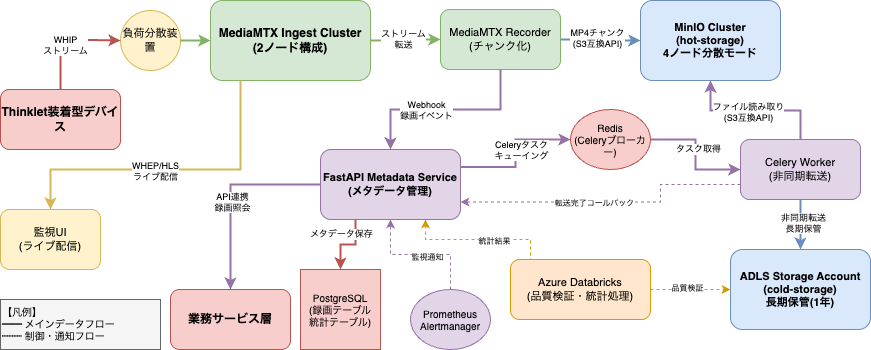
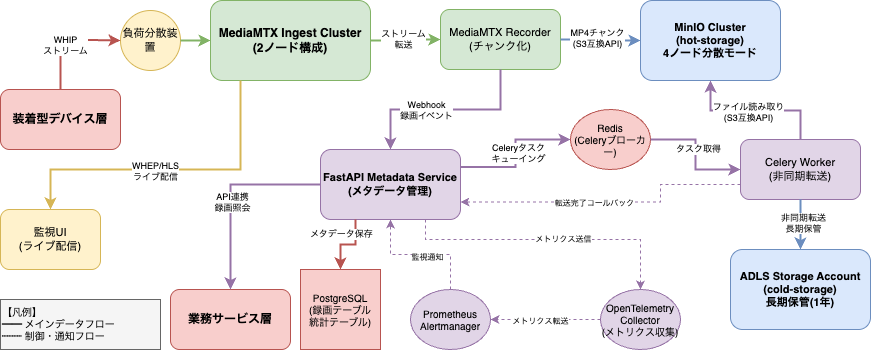
設計書を追加した

diff --git a/docs/03000_設計書/03020_配信・記録層設計/03022_配信・記録層詳細設計/03022_配信・記録層詳細設計.md b/docs/03000_設計書/03020_配信・記録層設計/03022_配信・記録層詳細設計/03022_配信・記録層詳細設計.md
@@ -38,7 +38,6 @@
 - MinIO は 4 ノード分散モードでホットストレージを構成し、MediaMTX Recorder から S3 互換 API で書き込み。
 - ADLS は別リージョン冗長ストレージ (ZRS) を利用し、MinIO から FastAPI + Celery ワーカー経由で非同期転送。
 - FastAPI Metadata Service はコンテナ化し、業務サービス層と同一 VNet 内で動作。PostgreSQL 互換 RDB をメタデータ格納に使用。Redis を Celery ブローカーとして併設。
-- Azure Databricks はデータマネジメント層と同一サブスクリプションに配置し、FastAPI からバッチジョブを起動。
 
 ### 4.3. システム関連図
 ![配信・記録層システム関連図](./配信・記録層システム関連図.svg)
@@ -49,7 +48,7 @@
 3. MediaMTX Recorder が MP4 チャンク (デフォルト 60 秒) を生成し、MinIO hot-storage バケットへ書き込み。チャンク作成時にメタデータ (録画 ID、開始時刻、端末 ID) をオブジェクトタグに付与。
 4. FastAPI Metadata Service が MediaMTX Webhook を受信し、録画レコードを作成。月連番、工程情報、保存先 URI を登録し業務サービス層へ通知 (I-001)。
 5. FastAPI が Celery タスクキューに ADLS 転送タスクを追加。Celery ワーカーが 15 分毎に MinIO から ADLS へ新規チャンクを非同期転送し、成功後に MinIO オブジェクトへ移行済みタグを付与。転送完了時にコールバック API で FastAPI へ通知し、保持期間を更新。
-6. Azure Databricks が日次バッチで録画メタデータを解析し、パケット損失率・遅延統計を計算。結果は FastAPI を介してデータマネジメント層へ連携し、ダッシュボード表示用に整形。
+6. 配信・記録層のメタデータと統計情報は FastAPI を介してデータマネジメント層へ定期的に ETL 連携し、分析・可視化層でのダッシュボード表示用に整形。
 
 
 ## 6. モジュール設計
@@ -83,13 +82,13 @@
 - **Celery タスク定義**：
   - `transfer_to_adls_task`：MinIO → ADLS 転送とハッシュ検証
   - `cleanup_minio_task`：転送完了後の MinIO オブジェクト削除
-  - `databricks_job_trigger_task`：Azure Databricks ジョブ起動
+  - `cleanup_minio_task`：転送完了後の MinIO オブジェクト削除
   - `health_check_task`：定期的なサービス死活監視
 
-### 6.5 Azure Databricks Jobs
-- ジョブ 1：録画整合性チェック（チャンク欠落、ファイルサイズ異常）。FastAPI へ結果を通知し、エラー時はアラート発報。
-- ジョブ 2：遅延統計算出（平均遅延、95 パーセンタイル、パケット損失率）。結果をデータマネジメント層へ書き込み。
-- ジョブ 3：保持期間延長判定（運用ポリシーに基づくタグ更新）。
+### 6.5 オブザーバビリティスタック
+- **OpenTelemetry Collector**：メトリクス、トレーシング、ログを統一収集。FastAPI、MediaMTX、CeleryワーカーからのテレメトリデータをOTLPプロトコルで受信。
+- **Prometheus**：OpenTelemetryからメトリクスを受信し、時系列データとして保存。Alertmanagerと連携して闾値監視を実施。
+- **Grafana**：Prometheusデータを可視化し、ライブ配信状況、録画統計、Celeryタスク統計をダッシュボード表示。
 
 ## 7. インターフェース仕様
 ### 7.1 Webhook 受信 (MediaMTX → FastAPI)
@@ -108,11 +107,11 @@
 | `state`       | `ACTIVE` `ARCHIVED` `ERROR` |
 
 ### 7.3 内部 Celery タスク処理
-| タスク                        | 説明                                                               |
-| ----------------------------- | ------------------------------------------------------------------ |
-| `transfer_to_adls_task`       | MinIO から ADLS へのファイル転送、ハッシュ検証、完了ステータス更新 |
-| `cleanup_minio_task`          | 転送完了後の MinIO オブジェクト削除とタグ更新                      |
-| `databricks_job_trigger_task` | Azure Databricks ジョブの非同期起動                                |
+| タスク                     | 説明                                                               |
+| -------------------------- | ------------------------------------------------------------------ |
+| `transfer_to_adls_task`    | MinIO から ADLS へのファイル転送、ハッシュ検証、完了ステータス更新 |
+| `cleanup_minio_task`       | 転送完了後の MinIO オブジェクト削除とタグ更新                      |
+| `etl_data_management_task` | データマネジメント層へのメタデータ ETL 連携                        |
 
 ### 7.4 監視通知 (Prometheus Alertmanager → FastAPI)
 - アラート種別：遅延超過、録画失敗、MinIO 容量超過、Celery タスク失敗、ADLS 転送エラー
@@ -126,8 +125,9 @@
 - **UI 要件**：サムネイル生成エンドポイントを MediaMTX 側で 10 秒間隔静止画として提供し、監視画面で利用。（N-021）
 
 ## 9. 運用・監視
-- Prometheus 指標：ストリーム遅延、セッション数、チャンク書き込み時間、MinIO 容量、Celery タスク実行数・失敗数、ADLS 転送時間。
-- Grafana ダッシュボード：ライブ配信状況、録画成功率、Celery タスク統計、ADLS 転送遅延、アラート履歴。
+- **OpenTelemetry**: FastAPI、MediaMTX、Celeryワーカーからメトリクス、トレーシング、ログをOTLPプロトコルで統一収集。サービス間の依存関係とパフォーマンスを可視化。
+- **Prometheus 指標**: ストリーム遅延、セッション数、チャンク書き込み時間、MinIO 容量、Celery タスク実行数・失敗数、ADLS 転送時間。
+- **Grafana ダッシュボード**: ライブ配信状況、録画成功率、Celery タスク統計、ADLS 転送遅延、アラート履歴。
 - アラート基準：
   - 遅延 1 秒超過が 60 秒継続 → 高優先度通知
   - 録画失敗が 3 回連続 → 当直オペレーターへ電話連絡
